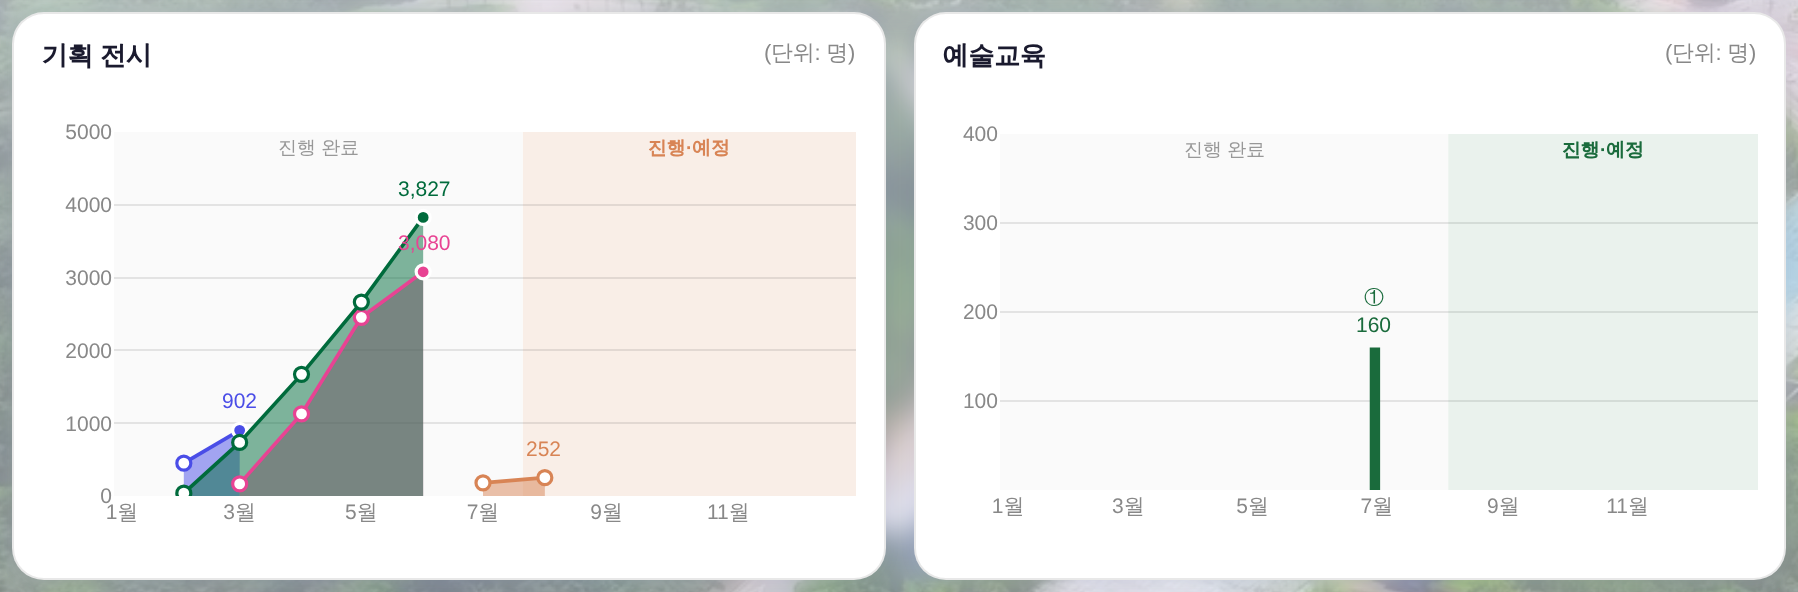
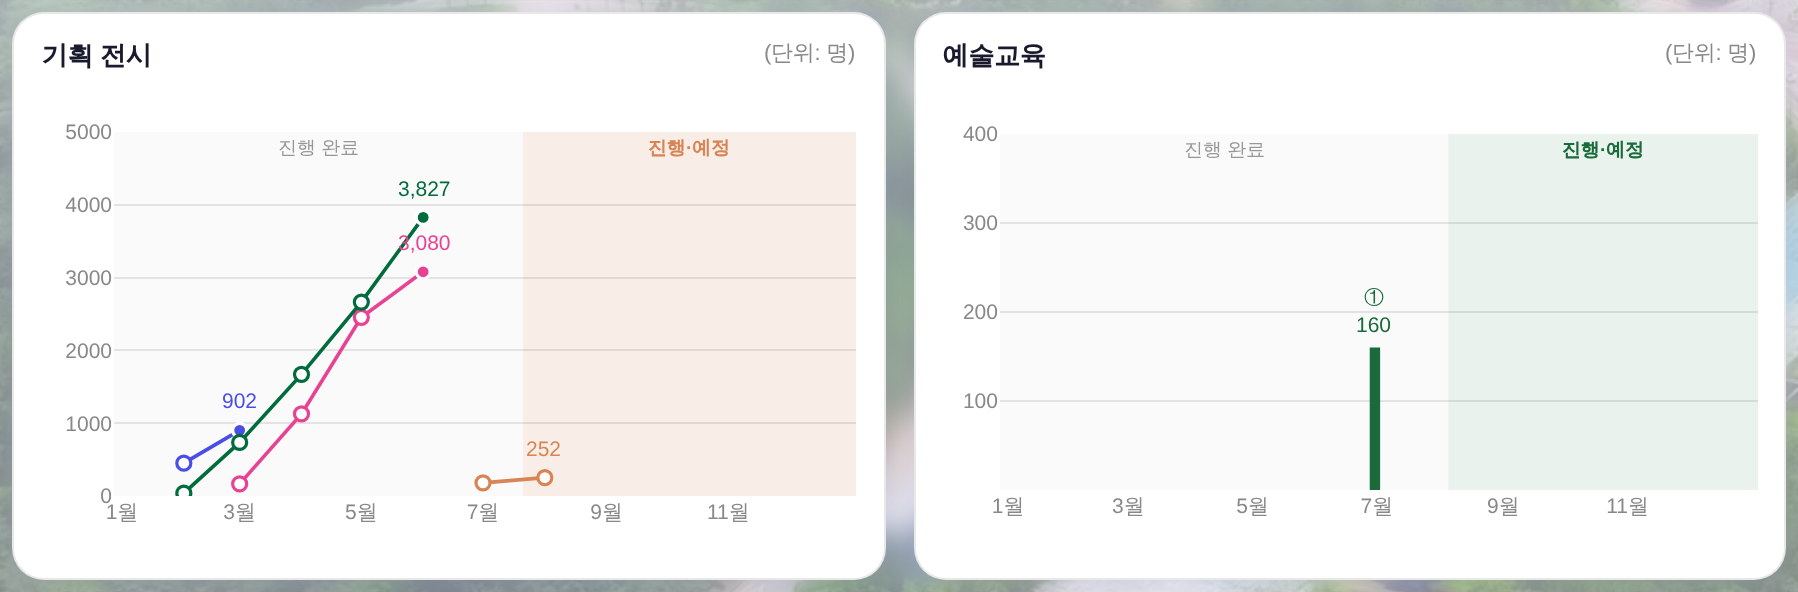
예술교육 누계선 = 면 없이(전시 3차 판정 적용) · 전후 리포트·작업이력 정리
- 머지 후 상태로 전/후 재촬영(전 = 34d1e0e 기준 · 후 = 이 브랜치)
- 리포트 §6 = 부팅 P0 절 → 「면 철거 판정 합류」 절로 교체 · 실측 fills 2→0 정정
- 작업이력 260805-28 = 부팅 수리 주장 철회(main _ctDefs 채택), 면 없음 명문

Claude-Session: https://claude.ai/code/session_01URaLf5X5r6SDhghvScd186

Changed region(s): [[0.0934, 0.3953, 0.3115, 0.8514]]

diff --git a/docs/reports/260805_예술교육_판매중선_전후.html b/docs/reports/260805_예술교육_판매중선_전후.html
@@ -47,8 +47,8 @@ code{background:var(--neutral);padding:1px 5px;border-radius:5px;font-size:11.5p
 <table>
 <tr><th style="width:150px">상태</th><th style="width:150px">전</th><th>후</th></tr>
 <tr><td><b>종료</b></td><td class="c">실막대(최종값)</td><td class="c ok">실막대 — <b>그대로</b>(운영자 「지금 말고 … 이미 종료되었으니까」)</td></tr>
-<tr><td><b>판매중</b></td><td class="c no">실막대 하나 — 시작 달에 최종값만</td><td class="c ok">누계 꺾은선 + 면(그 분야색 50%) · 꼭자락에 현재 누계</td></tr>
-<tr><td><b>동시 판매</b></td><td class="c no">막대 2개가 다른 달에 — 비교 불가</td><td class="c ok">같은 축 위 두 선 — 겹친 면이 동시 진행을 말한다</td></tr>
+<tr><td><b>판매중</b></td><td class="c no">실막대 하나 — 시작 달에 최종값만</td><td class="c ok">누계 꺾은선 · 꼭자락에 현재 누계</td></tr>
+<tr><td><b>동시 판매</b></td><td class="c no">막대 2개가 다른 달에 — 비교 불가</td><td class="c ok">같은 축 위 두 선 — 같은 달 자리에서 높이로 바로 비교된다</td></tr>
 <tr><td><b>예정·값 없음</b></td><td class="c">파선 게이지</td><td class="c ok">파선 게이지 — <b>그대로</b></td></tr>
 </table>
 </section>
@@ -69,10 +69,10 @@ code{background:var(--neutral);padding:1px 5px;border-radius:5px;font-size:11.5p
 <section>
 <h2>3. 전후 — 예술교육 반쪽 (3면 하단 · 426×230)</h2>
 <p class="desc">목데이터 = ① 종료 교육 1건(운영대장 발권유료 340) · ②③ 판매중 2건(6~8월 <b>동시 판매</b>) · ④ 예정 1건(원천 없음).
-그리는 문법은 전시 반쪽 정본 그대로 — 진행중 = <b>빈 동그라미</b>, 선 뒤 <b>고유색 50% 면</b>, 값 라벨은 <b>꼭자락 하나뿐</b>(월별 수치는 툴팁만).</p>
+그리는 문법은 전시 반쪽 정본 그대로 — 진행중 = <b>빈 동그라미</b>, 값 라벨은 <b>꼭자락 하나뿐</b>(월별 수치는 툴팁만), <b>면 없음</b>(아래 §6).</p>
 <div class="ba">
 <div class="card"><div class="hd b">전 (before) — 판매중 ②③도 막대. 6월·8월에 따로 서 있어 「동시에 팔린다」가 안 읽힌다</div><img src="260805_예술교육_판매중선_전_edu.png" alt="개정 전 — 예술교육 반쪽이 전부 막대"></div>
-<div class="card"><div class="hd a">후 (after) — ②③이 누계 꺾은선. 겹친 면 = 동시 판매 구간 · ①(종료)은 막대 그대로</div><img src="260805_예술교육_판매중선_후_edu.png" alt="개정 후 — 판매중 교육이 누계 꺾은선"></div>
+<div class="card"><div class="hd a">후 (after) — ②③이 누계 꺾은선(6~8월 동시 판매) · ①(종료)은 막대 그대로</div><img src="260805_예술교육_판매중선_후_edu.png" alt="개정 후 — 판매중 교육이 누계 꺾은선"></div>
 </div>
 <p class="desc" style="margin:12px 0 0">「전체 ↔ 판매중」 토글을 켠 화면 — 끝난 ①이 빠지고 두 누계선만 남는다(공연·전시와 같은 축).</p>
 <div class="ba"><div class="card"><div class="hd a">후 — 판매중 토글</div><img src="260805_예술교육_판매중선_후_판매중토글_edu.png" alt="판매중 토글 상태 — 누계 꺾은선 2개"></div></div>
@@ -99,20 +99,20 @@ code{background:var(--neutral);padding:1px 5px;border-radius:5px;font-size:11.5p
 </section>
 
 <section>
-<h2>6. 함께 고친 부팅 회귀 (별건 · main에서 앱이 안 뜨고 있었다)</h2>
-<p class="desc">이 작업을 하려고 화면을 띄우다 발견 — <code>main</code>(PR #666) 상태에서 <b>세션 있는 재방문이 통째로 실패</b>한다.</p>
-<ul>
-<li>부팅 IIFE가 <code>_enterAppFromSession() → initApp() → buildNav()</code>를 즉시 부르고, buildNav는 모바일 아코디언을 그 자리에서 짓는다.</li>
-<li>그런데 <code>_CT_ITEM·_CT_HOV·_CT_HD·_CT_SEC·_CT_IMG·_CT_VID</code>는 24k번째 줄의 <code>var</code>였다 — 함수 선언은 호이스팅되지만 <b>대입은 그 줄에 닿아야</b> 일어난다.</li>
-<li>실측: <code>TypeError: Cannot read properties of undefined (reading 'map')</code> @ <code>_ctList</code> → initApp이 중도 사망 → 대시보드가 안 그려진다(<code>[data-bizmbox]</code> 0개).</li>
-<li>고침 = 값 6종을 <b>부팅 줄 위</b>로 이동(문법·주석은 빌더 쪽 그대로 · 값 이원화 0). 신규 로그인은 스크립트 실행이 끝난 뒤라 원래 멀쩡했다 = 재방문만 죽는 형태.</li>
-</ul>
+<h2>6. 머지 합류 — 전시 3차 <b>「면 철거」</b> 판정을 교육에도 적용</h2>
+<p class="desc">작업 중 다른 세션이 <code>main</code>에 올린 판정: 전시 누계선의 「고유색 50% 면」은
+<b>같은 바닥(0)에서 겹쳐 그린 것이라 누적도 직각도 아니다</b>(운영자) → 철거. 같은 판정이 교육에도 그대로 걸리므로
+이 작업의 누계선도 <b>면 없이</b> 낸다(처음 시안에는 있었고, 머지에서 뺐다). 되살릴 땐 전시와 같은 조건 —
+<b>시작일순 스택 + 직각(hv 스텝)</b>으로만.</p>
+<div class="warn">⚠ 같은 머지에서 부팅 P0(로그인 상태 새로고침 시 <code>initApp</code> 중단)도 양쪽이 각자 잡았다 →
+<code>main</code>의 <code>_ctDefs()</code>(hoist 보장)를 채택하고 이 세션의 「값을 부팅 줄 위로 이동」판은 철회했다.
+같은 사고를 두 벌로 막지 않는다.</div>
 </section>
 
 <section>
 <h2>7. 실측·게이트</h2>
 <ul>
-<li>헤드리스 실측 — 교육 차트 <code>lines 2 · fills 2 · points 7</code>(②4점 + ③3점) · 값 라벨 <code>214 / 147 / 340</code> · 색인 <code>①②③④</code> 전건.</li>
+<li>헤드리스 실측 — 교육 차트 <code>lines 2 · fills 0 · points 7</code>(②4점 + ③3점) · 값 라벨 <code>214 / 147 / 340</code> · 색인 <code>①②③④</code> 전건.</li>
 <li>회귀 — 기획 전시 반쪽 무변(<code>shot_exmonthly</code>: 902 / 3,827 / 3,080 / 252 · 점 채움 규칙 동일) · pageerror 0.</li>
 <li><code>npm run check</code> ✓ — <code>check_design</code> raw hex index <b>1578/1578 무변</b> · :root 2/0 · 새 토큰·새 색 0 · <code>check_refs</code> ✓ · <code>_YR</code> 정합 ✓.</li>
 <li><code>npm run smoke:layout</code> ✓ 1920×1080 · ✓ 1440×900 · <code>npm run smoke</code> ✓.</li>

diff --git a/docs/작업이력.md b/docs/작업이력.md
@@ -3623,13 +3623,13 @@
 - **전후**: `docs/reports/260805_전시면롤백_부팅수정_전후.html`.
 ## 260805-28 — 예술교육 **판매중 = 누계 꺾은선**(종료는 막대 그대로) 
 - **운영자 지시**: 「예술 교육을 **이 선과 같이** 표현해줘. 지금 말고(이미 종료되었으니까) **종료 안된거는(판매중일경우는, 공연과 같이)** … 사실상 예술교육은 공연하고 같이 표현해줘. **동시에 팔릴경우는 누적그래프로** 할거임」.
-- **⚠ 선행 발견 — main이 깨져 있었다(별건 · 같이 고침)**: 260805-25(PR #666) 이후 **세션 있는 재방문이 통째로 실패**. 부팅 IIFE(~L4182)가 `_enterAppFromSession→initApp→buildNav`를 즉시 부르고 buildNav가 모바일 아코디언을 그 자리에서 짓는데, `_CT_ITEM·_CT_HOV·_CT_HD·_CT_SEC·_CT_IMG·_CT_VID`가 24k번째 줄 `var`라 **그 창에서 전부 미대입** → 실측 `TypeError: … reading 'map' @ _ctList` → initApp 중도 사망(`[data-bizmbox]` 0개). 고침 = 값 6종을 **부팅 줄 위**로 이동(문법·주석은 빌더 쪽 유지 = 값 이원화 0 · 되돌리지 말라는 ⚠ 양쪽에 명시). 신규 로그인 경로는 스크립트 실행 후라 원래 정상 = **재방문만 죽는** 형태여서 안 잡혔다.
+- **⚠ 선행 발견 = main 부팅 P0(별건)**: 화면을 띄우려다 「세션 있는 재방문에서 `initApp` 중단(`TypeError … reading 'map' @ _ctList`)」을 만나 자체 수리했으나, **같은 사고를 다른 세션이 동시에 잡아 먼저 main에 올렸다**(260805-27 `_ctDefs()`) → 머지에서 **main판 채택 · 내 판 철회**(같은 사고를 두 벌로 막지 않는다).
 - **진짜 병목 = 차트가 아니라 입력 입구**: 구 주석 「원천이 생길 때 배선한다」의 그 원천 — `_dailyMasters` 프로그램 폴백이 `콘텐츠구분==='예술교육'`을 통째로 걷어내 **마스터 미등록 교육은 앱 어느 입구로도 일일 실적을 못 넣었다**(마스터 등록 교육은 위 마스터 경로가 이미 담당 카테고리 필터로 통과 = **두 입구가 어긋나 있었음**). → 전시·대관만 남기고 **교육 제외 해제**(담당 카테고리 필터는 그대로 = 교육 담당자·최고관리자만 목록에 뜬다).
 - **월별 원천 `_bizEduDailyIdx(year)`**: 공연이 쓰는 그 시트 그대로(`운영_일일입력` = `_salesState.daily` · 합계좌석 = 그 날짜까지의 누계)를 달 단위로 접는다 = 「공연과 같이」의 실체. 규칙 3가지(①그 달 최댓값 ②누계는 안 줄어든다 ③선택 연도만)는 전시 반쪽 `_bizDrawExhibMonthly` 정본 계승 — **새 집계 규칙 0**. `_bizEduMonthRows` attach가 **종료 아닌 것에만** `_mo`를 단다(끝난 교육의 정본은 운영대장 발권유료 한 값 = 시계열 없음 · 운영자 「이미 종료되었으니까」).
-- **그리기(`_bizDrawSalesBars` dom='edu')**: `_mo` 있는 행 = 막대 자리를 비우고(같은 값 두 벌 금지) 누계 꺾은선 — 진행중 = **빈 동그라미**(카드 바탕 채움 + 선색 테두리) · 선 뒤 **분야색 50% 면**(`_yrHexA` 알파 변주 = 새 색 0 · 2점 이상만) · 값 라벨 = **꼭자락 하나뿐**(월별 증가분은 툴팁) · 파선 자리에서 제외(선이 이미 그 자리를 지킨다) · y축 상한 산정에 선 꼭자락 합류(천장 뚫림 방지). 함수는 공유하지 않는다 — 교육 반쪽은 막대+선이 한 그림에 서야 하고 y축이 수강생 100~400 **고정자**라 전시 함수의 자동 상한과 축이 다르다(그 이유를 양쪽 주석에 명시).
+- **그리기(`_bizDrawSalesBars` dom='edu')**: `_mo` 있는 행 = 막대 자리를 비우고(같은 값 두 벌 금지) 누계 꺾은선 — 진행중 = **빈 동그라미**(카드 바탕 채움 + 선색 테두리) · **면 없음**(머지 합류 = 260805-27 전시 3차 「같은 바닥 겹치기 = 누적도 직각도 아니다」 판정을 교육에도 적용 · 되살릴 땐 시작일순 스택 + 직각 hv 스텝으로만) · 값 라벨 = **꼭자락 하나뿐**(월별 증가분은 툴팁) · 파선 자리에서 제외(선이 이미 그 자리를 지킨다) · y축 상한 산정에 선 꼭자락 합류(천장 뚫림 방지). 함수는 공유하지 않는다 — 교육 반쪽은 막대+선이 한 그림에 서야 하고 y축이 수강생 100~400 **고정자**라 전시 함수의 자동 상한과 축이 다르다(그 이유를 양쪽 주석에 명시).
 - **색인 ①②③ 자리**: 꺾은선은 **꼭자락 오른쪽 옆**(위가 아니라 옆) — 동시 판매 구간은 두 선이 같은 달에 끝나 위로 쌓으면 아래 선 색인이 위 선에 묻힌다(실측 ③ 소실). 천장 근접 막대(값 라벨 + 색인이 구획 라벨 띠에 포갬)도 같은 규칙으로 옆으로 — 전시 반쪽의 「천장 근접 = 축이 아니라 라벨을 옮긴다」와 같은 축.
 - **동시 수리 — 교육이 공연 KPI에 이중 계상**: 판매 축이 교육을 싣게 되자 `_bizCompRender`의 「판매중 ∪ 조인」이 그 교육을 **공연 목록**에도 얹었다(목데이터 실측: 사업 수 20→18 · 누적 매출 **508만 = 그 교육 두 건 금액 전부** → — · 판매 고객 24,140→23,779 = −361 = 214+147). 판정 = `_bizEduNameSet()`(프로그램 시트 t'a' 풀네임·줄임말) — 판매 축엔 콘텐츠 구분 열이 없어 이게 유일한 소스. **한 사업은 한 자리에서만 센다**(교육의 정본 자리 = 이 면 하단 반쪽).
 - **부수(교육 반쪽만)**: Plotly가 막대 밖 글자를 **막대 폭에 맞춰 줄여** 그려(게이지 굵기 ≈5px) 지정 10.5px가 실제 5~6px로 찍혔다 → 선 꼭자락 라벨(주석 10.5px)과 크기가 갈렸다. 교육 막대 값 라벨도 **주석으로** 뽑아 한 벌. 자리·겹침 판정은 기존 `labs` 규칙 그대로(같은 규칙 두 벌 금지) · 공연 차트는 막대가 굵어 무접촉(회귀 0).
 - **하네스**: `tools/scratch/shot_edu_sales.mjs` 신설(shot_exmonthly 하네스 계승) — 종료 1·판매중 2(6~8월 동시)·예정 1 목데이터 · 6번째 인자 `live` = 「판매중」 토글 상태. 실API·PII 미접촉.
-- **게이트**: `npm run check` ✓(raw hex **1578/1578 무변** · :root 2/0 · 새 토큰·새 색 0) · `smoke:layout` ✓ 1920×1080 · ✓ 1440×900 · `npm run smoke` ✓ · 실렌더 pageerror 0 · 전시 반쪽 회귀 0(902/3,827/3,080/252 · 점 채움 규칙 동일).
+- **게이트**: `npm run check` ✓(raw hex **1578/1578 무변** · :root 2/0 · 새 토큰·새 색 0) · `smoke:layout` ✓ 1920×1080 · ✓ 1440×900 · `npm run smoke` ✓ · 실렌더 pageerror 0(교육 차트 실측 = 선 2 · 면 0 · 점 7 · 값 라벨 214/147/340 · 색인 ①②③④ 전건) · 전시 반쪽 회귀 0(902/3,827/3,080/252 · 점 채움 규칙 동일).
 - **전후**: `docs/reports/260805_예술교육_판매중선_전후.html`.
